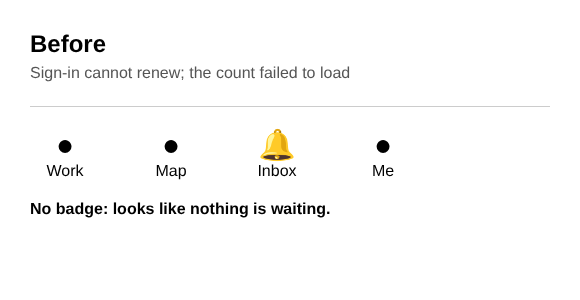
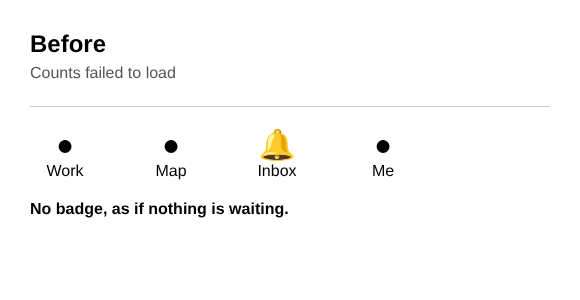
LAN-221: grey badge instead of a question mark; read a failed count again after 15 seconds
Claude-Session: https://claude.ai/code/session_019xSjUtA3qRKxt7ioZjidmw

Changed region(s): [[0.031, 0.21, 0.6207, 0.27], [0.1862, 0.66, 0.5897, 0.72]]

diff --git a/apps/mobile/src/shell/NavChrome.tsx b/apps/mobile/src/shell/NavChrome.tsx
@@ -13,7 +13,6 @@ import { HelpBadge } from '../helpMode/helpBadge';
 import { useHelpSpot } from '../helpMode/useHelpMode';
 import { Badge, Ico, type IconName } from '../ui/kit';
 import { txt } from '../ui/textStyles';
-import { badgeShape } from './badgeModel';
 import type { Tab, TabId } from './session';
 import { C, measure, radius, space, target } from '../ui/theme';
 import { UserChip } from '../ui/UserChip';
@@ -22,10 +21,7 @@ import { a11yState } from '../ui/a11yModel';
 const TAB_ICONS: Record<TabId, IconName | 'bookClosed'> = { work: 'list', map: 'bookClosed', reports: 'progress', manage: 'settings', inbox: 'notif', me: 'user' };
 
 /** A tab's badge: its count, or 99+ past that. */
-function badgeText(n: number, unsure = false): string {
-  const shape = badgeShape(n, unsure);
-  if (shape.kind === 'unknown') return '?';
-  if (shape.kind === 'atLeast') return t('shell.nav.badgeMax', { max: shape.n });
+function badgeText(n: number): string {
   return n > 99 ? t('shell.nav.badgeMax', { max: 99 }) : formatNumber(n);
 }
 
@@ -105,8 +101,10 @@ function BarTab(props: { tab: Tab; active: boolean; rail: boolean; onSelect: (ta
       {/* The lit tab is its colour, with no pill behind it (demo ADR-032); the rail keeps the pill. */}
       <View style={[styles.tabPill, rail && active && { backgroundColor: C.light }]}>
         <TabIcon id={tab.id} size={26} color={color} />
-        {tab.badge || tab.badgeUnsure ? (
-          <View style={styles.tabBadge}><Text style={styles.tabBadgeText} maxFontSizeMultiplier={1.5}>{badgeText(tab.badge ?? 0, tab.badgeUnsure)}</Text></View>
+        {tab.badge || tab.badgeStale ? (
+          <View style={[styles.tabBadge, tab.badgeStale && styles.tabBadgeStale, !tab.badge && styles.tabBadgeDot]}>
+            {tab.badge ? <Text style={styles.tabBadgeText} maxFontSizeMultiplier={1.5}>{badgeText(tab.badge)}</Text> : null}
+          </View>
         ) : null}
       </View>
       <Text style={[styles.tabLabel, { color }]} numberOfLines={1}>{tab.label}</Text>
@@ -126,7 +124,7 @@ function SideTab(props: { tab: Tab; active: boolean; onSelect: (tab: Tab) => voi
       style={({ pressed }) => [styles.sideItem, active && { backgroundColor: C.light }, pressed && { opacity: 0.6 }]}>
       <TabIcon id={tab.id} size={22} color={active ? C.primary : C.muted} />
       <Text style={[txt.body, { flex: 1, fontWeight: active ? '700' : '600', color }]} numberOfLines={1}>{tab.label}</Text>
-      {tab.badge || tab.badgeUnsure ? <Badge label={badgeText(tab.badge ?? 0, tab.badgeUnsure)} tone={tab.id === 'inbox' ? 'red' : 'brand'} /> : null}
+      {tab.badge ? <Badge label={badgeText(tab.badge)} tone={tab.badgeStale ? 'default' : tab.id === 'inbox' ? 'red' : 'brand'} /> : tab.badgeStale ? <View style={styles.sideDot} /> : null}
       <HelpBadge spot={spot} inset />
     </Pressable>
   );
@@ -153,6 +151,9 @@ const styles = StyleSheet.create({
   tabPill: { paddingHorizontal: 18, paddingVertical: 4, borderRadius: 99 },
   tabLabel: { fontSize: 13, fontWeight: '600' },
   tabBadge: { position: 'absolute', top: -4, right: 6, minWidth: 20, minHeight: 20, borderRadius: 10, paddingHorizontal: 4, backgroundColor: C.red, alignItems: 'center', justifyContent: 'center' },
+  tabBadgeStale: { backgroundColor: C.muted },
+  tabBadgeDot: { minWidth: 12, minHeight: 12, borderRadius: 6, top: 0, right: 10 },
+  sideDot: { width: 10, height: 10, borderRadius: 5, backgroundColor: C.muted },
   tabBadgeText: { color: C.white, fontSize: 13, fontWeight: '800' },
   rail: { width: measure.rail, backgroundColor: C.card, borderRightWidth: StyleSheet.hairlineWidth, borderColor: C.border, paddingTop: space.md, gap: space.xs },
   railItem: { minHeight: target.row, alignItems: 'center', justifyContent: 'center', gap: 4, paddingVertical: space.xs },

diff --git a/apps/mobile/src/work/home.tsx b/apps/mobile/src/work/home.tsx
@@ -20,8 +20,8 @@ import { touches } from '../ui/touches';
  * of the Inbox tab for everyone with a My Work. The count is what the Inbox
  * tab used to show: unread updates, open reports and people asking to join.
  */
-export function Bell(props: { count: number; unsure?: boolean; onPress: () => void }) {
-  const shape = badgeShape(props.count, props.unsure === true);
+export function Bell(props: { count: number; stale?: boolean; onPress: () => void }) {
+  const shape = badgeShape(props.count, props.stale === true);
   const label = props.count ? t('work.bell.labelNew', { count: props.count }) : t('work.bell.label');
   // The number on it says how many are new (rule 3).
   const spot = useHelpSpot(t('work.bell.label'), props.count > 0 ? `${t('work.bell.help')} ${t('work.bell.countHelp')}` : t('work.bell.help'), props.onPress);
@@ -29,11 +29,11 @@ export function Bell(props: { count: number; unsure?: boolean; onPress: () => vo
     <Pressable onPress={spot.onPress} accessibilityRole="button" accessibilityLabel={label}
       style={({ pressed }) => [styles.bell, pressed && styles.pressed]}>
       <Ico name="notif" size={24} color={C.dark} />
-      {shape.kind !== 'none' ? (
-        <View style={[styles.badge, touches.none]}>
-          <Text style={styles.badgeText}>{shape.kind === 'unknown' ? '?' : shape.kind === 'atLeast' ? t('work.bell.overMax', { max: formatNumber(shape.n) }) : shape.n > 99 ? t('work.bell.overMax', { max: formatNumber(99) }) : formatNumber(shape.n)}</Text>
+      {shape.kind === 'count' ? (
+        <View style={[styles.badge, shape.grey && styles.badgeStale, touches.none]}>
+          <Text style={styles.badgeText}>{shape.n > 99 ? t('work.bell.overMax', { max: formatNumber(99) }) : formatNumber(shape.n)}</Text>
         </View>
-      ) : null}
+      ) : shape.kind === 'dot' ? <View style={[styles.badge, styles.badgeStale, styles.badgeDot, touches.none]} /> : null}
       <HelpBadge spot={spot} />
     </Pressable>
   );
@@ -107,6 +107,8 @@ const styles = StyleSheet.create({
   pressed: { opacity: 0.7 },
   bell: { width: target.min, height: target.min, borderRadius: target.min / 2, backgroundColor: C.card, borderWidth: 1, borderColor: C.border, alignItems: 'center', justifyContent: 'center' },
   badge: { position: 'absolute', top: -4, right: -4, minWidth: 22, minHeight: 22, paddingHorizontal: 5, borderRadius: 11, backgroundColor: onColor.amber, borderWidth: 2, borderColor: C.card, alignItems: 'center', justifyContent: 'center' },
+  badgeStale: { backgroundColor: C.muted },
+  badgeDot: { minWidth: 14, minHeight: 14, borderRadius: 7, paddingHorizontal: 0 },
   badgeText: { color: C.white, fontSize: T.xs, fontWeight: '800' },
   next: { backgroundColor: C.card, borderRadius: radius.xl, borderWidth: 2, borderColor: C.primary, padding: space.lg, gap: space.md },
   nextLabel: { fontSize: T.xs, fontWeight: '800', letterSpacing: 1.4, color: C.primary, textTransform: 'uppercase', marginBottom: space.xs },

diff --git a/apps/mobile/src/invites/useInviteRequests.ts b/apps/mobile/src/invites/useInviteRequests.ts
@@ -1,7 +1,7 @@
 // Requests to join, as screens follow them (invites/invites.ts makes the calls).
 import { useEffect, useState } from 'react';
 import { AppState } from 'react-native';
-import type { KnownCount } from '../shell/badgeModel';
+import { RETRY_MS, type BadgeCount } from '../shell/badgeModel';
 import { noteExpected } from '../diagnostics/report';
 import { requestOutcome, type RequestOutcome } from './requestOutcome';
 import { myOrganizations } from '../server/account';
@@ -12,29 +12,29 @@ import { requestListeners } from './invites';
  * How many people are asking to join, for the Inbox badge (the tab, or My
  * Work's bell): read when the app comes forward, every minute (as often as
  * pushes go, decisions.md 68), and after someone decides; when a read fails the
- * count is unknown (null), never the last one (LAN-221). A count only, no rows. Only org-wide Invite can read
+ * last count stays, marked stale, and is read again soon (LAN-221). A count only, no rows. Only org-wide Invite can read
  * requests (`join_requests_read`).
  */
-export function usePendingRequestCount(orgId: string, enabled: boolean): KnownCount {
-  const [count, setCount] = useState<KnownCount>(0);
+export function usePendingRequestCount(orgId: string, enabled: boolean): BadgeCount {
+  const [state, setState] = useState<BadgeCount>({ count: 0, stale: false });
   useEffect(() => {
-    if (!enabled) { setCount(0); return; }
-    setCount(null);
+    if (!enabled) { setState({ count: 0, stale: false }); return; }
     let active = true;
+    let retry: ReturnType<typeof setTimeout> | undefined;
     const load = () => {
       void (async () => {
         const { count: open, error } = await server.joinRequestCount(orgId);
         if (error) throw new Error(error.message);
-        if (active) setCount(open ?? 0);
-      })().catch((e: unknown) => { noteExpected('pending request count', e); if (active) setCount(null); });
+        if (active) { setState({ count: open ?? 0, stale: false }); clearTimeout(retry); }
+      })().catch((e: unknown) => { noteExpected('pending request count', e); if (active) { setState((s) => ({ ...s, stale: true })); clearTimeout(retry); retry = setTimeout(load, RETRY_MS); } });
     };
     load();
     requestListeners.add(load);
     const app = AppState.addEventListener('change', (state) => { if (state === 'active') load(); });
     const timer = setInterval(load, 60_000);
-    return () => { active = false; requestListeners.delete(load); app.remove(); clearInterval(timer); };
+    return () => { active = false; requestListeners.delete(load); app.remove(); clearInterval(timer); clearTimeout(retry); };
   }, [orgId, enabled]);
-  return count;
+  return state;
 }
 
 /**

diff --git a/apps/mobile/src/moderation/useModeration.ts b/apps/mobile/src/moderation/useModeration.ts
@@ -1,5 +1,5 @@
 // Who this person has blocked, and reports waiting, as screens follow them (moderation/moderationData.ts).
-import type { KnownCount } from '../shell/badgeModel';
+import { RETRY_MS, type BadgeCount } from '../shell/badgeModel';
 import AsyncStorage from '@react-native-async-storage/async-storage';
 import { useCallback, useEffect, useMemo, useState } from 'react';
 import { AppState } from 'react-native';
@@ -53,23 +53,23 @@ export function useBlocks(actorId: string): Blocks {
 /**
  * How many things have open reports this person may act on, for the Inbox
  * badge. Read when the app comes forward, every five minutes, and after a
- * moderator acts; when a read fails the count is unknown (null), not the last one: the badge says so (badgeModel.ts).
+ * moderator acts; when a read fails the last count stays and is marked stale, and it is read again soon (badgeModel.ts).
  */
-export function useOpenReportCount(orgId: string, enabled: boolean): KnownCount {
-  const [count, setCount] = useState<KnownCount>(0);
+export function useOpenReportCount(orgId: string, enabled: boolean): BadgeCount {
+  const [state, setState] = useState<BadgeCount>({ count: 0, stale: false });
   useEffect(() => {
-    if (!enabled) { setCount(0); return; }
-    setCount(null);
+    if (!enabled) { setState({ count: 0, stale: false }); return; }
     let active = true;
+    let retry: ReturnType<typeof setTimeout> | undefined;
     const load = () => {
-      openReports(orgId).then((rows) => { if (active) setCount(groupReports(orgId, rows).length); })
-        .catch((e: unknown) => { noteExpected('open report count', e); if (active) setCount(null); });
+      openReports(orgId).then((rows) => { if (active) { setState({ count: groupReports(orgId, rows).length, stale: false }); clearTimeout(retry); } })
+        .catch((e: unknown) => { noteExpected('open report count', e); if (active) { setState((s) => ({ ...s, stale: true })); clearTimeout(retry); retry = setTimeout(load, RETRY_MS); } });
     };
     load();
     reportListeners.add(load);
     const app = AppState.addEventListener('change', (state) => { if (state === 'active') load(); });
     const timer = setInterval(load, 5 * 60_000);
-    return () => { active = false; reportListeners.delete(load); app.remove(); clearInterval(timer); };
+    return () => { active = false; reportListeners.delete(load); app.remove(); clearInterval(timer); clearTimeout(retry); };
   }, [orgId, enabled]);
-  return count;
+  return state;
 }

diff --git a/apps/mobile/test/badgeModel.test.ts b/apps/mobile/test/badgeModel.test.ts
@@ -3,23 +3,21 @@ import { badgeShape, badgeTotal } from '../src/shell/badgeModel';
 import { tabsFor } from '../src/shell/session';
 import { roleSession } from './sessions';
 
-// LAN-221: an Inbox badge must not say "nothing waiting" when the server could not be asked.
+// LAN-221: an Inbox badge must not look certain when its count could not be refreshed.
 describe('Inbox badge when a count cannot load', () => {
-  it('adds the counts that loaded and says it is unsure when one did not', () => {
-    expect(badgeTotal(2, [3, 1])).toEqual({ total: 6, unsure: false });
-    expect(badgeTotal(2, [3, null])).toEqual({ total: 5, unsure: true });
-    expect(badgeTotal(0, [null, null])).toEqual({ total: 0, unsure: true });
+  it('adds the last counts and is stale when any read failed', () => {
+    expect(badgeTotal(2, [{ count: 3, stale: false }, { count: 1, stale: false }])).toEqual({ total: 6, stale: false });
+    expect(badgeTotal(2, [{ count: 3, stale: false }, { count: 1, stale: true }])).toEqual({ total: 6, stale: true });
   });
-  it('shows a number, a number with a plus, a question mark, or nothing', () => {
+  it('shows a number, a grey number, a grey dot, or nothing', () => {
     expect(badgeShape(0, false)).toEqual({ kind: 'none' });
-    expect(badgeShape(4, false)).toEqual({ kind: 'count', n: 4 });
-    expect(badgeShape(4, true)).toEqual({ kind: 'atLeast', n: 4 });
-    expect(badgeShape(0, true)).toEqual({ kind: 'unknown' });
+    expect(badgeShape(4, false)).toEqual({ kind: 'count', n: 4, grey: false });
+    expect(badgeShape(4, true)).toEqual({ kind: 'count', n: 4, grey: true });
+    expect(badgeShape(0, true)).toEqual({ kind: 'dot' });
   });
   it('reaches the Inbox tab', () => {
     const viewer = roleSession('viewer');
-    const tab = tabsFor(viewer, { forYou: 0, unread: 0, unreadUnsure: true }).find((t) => t.id === 'inbox');
-    expect(tab?.badgeUnsure).toBe(true);
-    expect(tabsFor(viewer, { forYou: 0, unread: 0 }).find((t) => t.id === 'inbox')?.badgeUnsure ?? false).toBe(false);
+    expect(tabsFor(viewer, { forYou: 0, unread: 0, unreadStale: true }).find((t) => t.id === 'inbox')?.badgeStale).toBe(true);
+    expect(tabsFor(viewer, { forYou: 0, unread: 0 }).find((t) => t.id === 'inbox')?.badgeStale).toBe(false);
   });
 });

diff --git a/apps/mobile/src/shell/badgeModel.ts b/apps/mobile/src/shell/badgeModel.ts
@@ -1,22 +1,25 @@
 // What an Inbox badge says when a count could not load (LAN-221). Pure.
 
-/** A count of something on the server: a number once read, null when the last read failed or none has worked yet. */
-export type KnownCount = number | null;
+/** A count read from the server: the last number that loaded, and whether the latest read failed since. */
+export interface BadgeCount { count: number; stale: boolean }
 
-/**
- * Add the counts that make up one badge. `unsure` is true when any of them
- * could not be read, so the badge never claims "nothing waiting" (or an old
- * number) when the truth is that the server could not be asked.
- */
-export function badgeTotal(local: number, remote: KnownCount[]): { total: number; unsure: boolean } {
+/** How soon a failed count is read again, instead of waiting for the next regular read. */
+export const RETRY_MS = 15_000;
+
+/** Add the counts that make up one badge; it is stale when any of them is. */
+export function badgeTotal(local: number, remote: BadgeCount[]): { total: number; stale: boolean } {
   let total = local;
-  let unsure = false;
-  for (const n of remote) { if (n === null) unsure = true; else total += n; }
-  return { total, unsure };
+  let stale = false;
+  for (const r of remote) { total += r.count; if (r.stale) stale = true; }
+  return { total, stale };
 }
 
-/** The badge's text: a count, "n+" when more may wait, "?" when nothing is known. Null when there is nothing to show. */
-export function badgeShape(count: number, unsure: boolean): { kind: 'none' } | { kind: 'count'; n: number } | { kind: 'atLeast'; n: number } | { kind: 'unknown' } {
-  if (unsure) return count > 0 ? { kind: 'atLeast', n: count } : { kind: 'unknown' };
-  return count > 0 ? { kind: 'count', n: count } : { kind: 'none' };
+/**
+ * How the badge looks. A count that could not be refreshed keeps its last
+ * number but turns grey, so it is never shown as certain; with no number
+ * to show, a grey dot says something may be waiting.
+ */
+export function badgeShape(count: number, stale: boolean): { kind: 'none' } | { kind: 'count'; n: number; grey: boolean } | { kind: 'dot' } {
+  if (count > 0) return { kind: 'count', n: count, grey: stale };
+  return stale ? { kind: 'dot' } : { kind: 'none' };
 }

diff --git a/apps/mobile/src/shell/session.ts b/apps/mobile/src/shell/session.ts
@@ -232,7 +232,7 @@ export interface Tab {
   label: string;
   badge?: number;
   /** The badge's count could not be fully read (LAN-221): "n+", or "?" when nothing is known. */
-  badgeUnsure?: boolean;
+  badgeStale?: boolean;
 }
 
 /**
@@ -246,7 +246,7 @@ export interface Tab {
  * Viewer looking in) has no Inbox: nothing ever arrives there for them
  * (decision 71 amended, decision 158).
  */
-export function tabsFor(s: Session, counts: { forYou: number; unread: number; unreadUnsure?: boolean } = { forYou: 0, unread: 0 }, opts: { wide?: boolean } = {}): Tab[] {
+export function tabsFor(s: Session, counts: { forYou: number; unread: number; unreadStale?: boolean } = { forYou: 0, unread: 0 }, opts: { wide?: boolean } = {}): Tab[] {
   const tabs: Tab[] = [];
   const hasMyWork = homeScreenFor(s) === 'my_work';
   if (hasMyWork) tabs.push({ id: 'work', screen: 'my_work', label: t('account.tabs.work') });
@@ -254,7 +254,7 @@ export function tabsFor(s: Session, counts: { forYou: number; unread: number; un
   if (opts.wide && !s.hasNoOrg && s.can('view_status')) tabs.push({ id: 'reports', screen: 'reports_home', label: t('account.tabs.reports') });
   const manage = manageHomeFor(s);
   if (manage) tabs.push({ id: 'manage', screen: manage, label: t('account.tabs.manage') });
-  if (!hasMyWork && !s.readOnly) tabs.push({ id: 'inbox', screen: 'inbox_home', label: t('account.tabs.inbox'), badge: counts.unread, badgeUnsure: counts.unreadUnsure === true });
+  if (!hasMyWork && !s.readOnly) tabs.push({ id: 'inbox', screen: 'inbox_home', label: t('account.tabs.inbox'), badge: counts.unread, badgeStale: counts.unreadStale === true });
   tabs.push({ id: 'me', screen: 'settings_home', label: t('account.tabs.me') });
   return tabs;
 }

diff --git a/apps/mobile/App.tsx b/apps/mobile/App.tsx
@@ -506,8 +506,8 @@ function OrgWork(props: { actorId: string; email: string | null; signedIn: boole
   const acceptTerms = useCallback((actorId = props.actorId) => recordUserEvent(actorId, 'v1.TermsAccepted'), [props.actorId]);
   const openDev = useCallback(() => setDevOpen(true), []);
   const inboxView = useMemo(
-    () => ({ updates: inbox.updates, unread: inbox.unread, unreadUnsure: inbox.unreadUnsure, isRead: inbox.isRead, markRead: inbox.markRead }),
-    [inbox.updates, inbox.unread, inbox.unreadUnsure, inbox.isRead, inbox.markRead]
+    () => ({ updates: inbox.updates, unread: inbox.unread, unreadStale: inbox.unreadStale, isRead: inbox.isRead, markRead: inbox.markRead }),
+    [inbox.updates, inbox.unread, inbox.unreadStale, inbox.isRead, inbox.markRead]
   );
   const { data: welcomeData, refresh: refreshWelcome } = welcomeBack;
   const welcomeView = useMemo(() => (hasWelcome(welcomeData) ? { data: welcomeData, refresh: refreshWelcome } : null), [welcomeData, refreshWelcome]);
@@ -571,7 +571,7 @@ function OrgWork(props: { actorId: string; email: string | null; signedIn: boole
   useEffect(() => {
     if (kind === 'phone' && (screen === 'reports_home' || screen === 'reports_language')) nav.reset({ screen: homeScreenFor(session) });
   }, [kind, screen, nav, session]);
-  const tabs = tabsFor(session, { forYou: inbox.forYou, unread: inbox.unread, unreadUnsure: inbox.unreadUnsure }, { wide });
+  const tabs = tabsFor(session, { forYou: inbox.forYou, unread: inbox.unread, unreadStale: inbox.unreadStale }, { wide });
   // The lit tab is the one you came from (the bottom of the stack), so a
   // passage opened from My Work stays under My Work.
   const bottom = nav.stack[0]?.screen;

diff --git a/apps/mobile/src/screens/work.tsx b/apps/mobile/src/screens/work.tsx
@@ -189,7 +189,7 @@ export function MyWork(ctx: Ctx) {
   // The sidebar names the organization on a desktop; the subtitle then need not.
   const orgName = useOrgInChrome() ? '' : ctx.org.state?.org?.value.name ?? '';
   const language = languageId ? languageName(ctx.org.state, languageId) : '';
-  const bell = canGo(ctx, 'inbox_home') ? <Bell count={ctx.inbox.unread} unsure={ctx.inbox.unreadUnsure} onPress={() => ctx.go('inbox_home', { from: 'my_work' })} /> : null;
+  const bell = canGo(ctx, 'inbox_home') ? <Bell count={ctx.inbox.unread} stale={ctx.inbox.unreadStale} onPress={() => ctx.go('inbox_home', { from: 'my_work' })} /> : null;
   const header = (
     <Header title={t('work.title')} sub={[language, orgName].filter(Boolean).join(' · ') || undefined}
       {...(orgName ? { subNode: <OrgLine text={[language, orgName].filter(Boolean).join(' · ')} orgName={orgName} orgId={ctx.language.orgId} style={txt.xs} /> } : {})}

diff --git a/apps/mobile/src/shell/useInbox.ts b/apps/mobile/src/shell/useInbox.ts
@@ -51,6 +51,6 @@ export function useInbox(o: { language: Pick<LanguageHandle, 'state' | 'lines' |
   const reportCount = useOpenReportCount(orgId, signedIn && (session.can('manage_structure') || session.can('invite_members')));
   // People asking to join count too, for whoever may admit them.
   const requestCount = usePendingRequestCount(orgId, signedIn && session.can('invite_members'));
-  const { total, unsure } = badgeTotal(unread, [reportCount, requestCount]);
-  return { forYou, updates, unread: total, unreadUnsure: unsure, isRead, markRead };
+  const { total, stale } = badgeTotal(unread, [reportCount, requestCount]);
+  return { forYou, updates, unread: total, unreadStale: stale, isRead, markRead };
 }

diff --git a/apps/mobile/src/shell/ctx.ts b/apps/mobile/src/shell/ctx.ts
@@ -63,7 +63,7 @@ export interface Ctx {
    */
   blocks: Blocks;
   /** Record-derived updates for the Inbox and which of them this device has shown. */
-  inbox: { updates: Update[]; unread: number; unreadUnsure: boolean; isRead: (id: string) => boolean; markRead: (ids: string[]) => void };
+  inbox: { updates: Update[]; unread: number; unreadStale: boolean; isRead: (id: string) => boolean; markRead: (ids: string[]) => void };
 
   /**
    * Someone who came from LangQuest v2 and has not been welcomed yet: what
